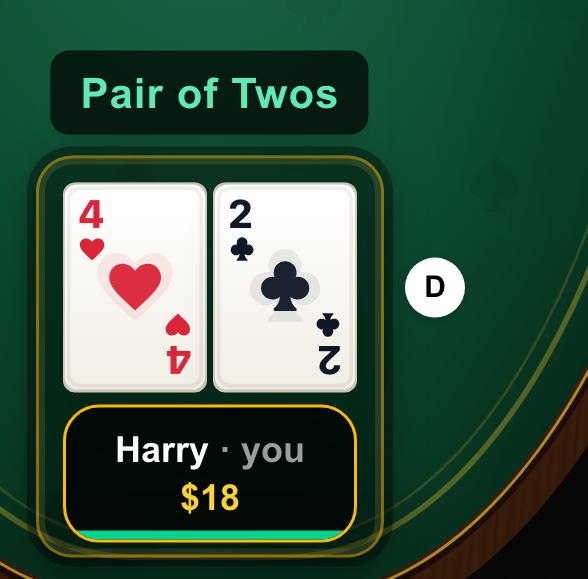
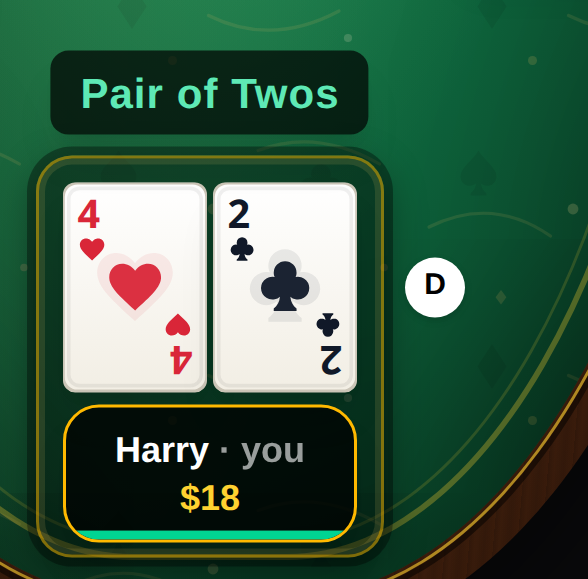
Refresh README shots for the Poker Party felt.
Recapture the four phone-portrait demo hands so the gold POKER PARTY
wordmark replaces HOME GAME. Hide the Next.js dev badge during capture.
README deploy notes now match the iphone-app friend beta.

diff --git a/README.md b/README.md
@@ -22,11 +22,11 @@ A polished, mobile-first multiplayer poker table with a hidden automated dealer.
 
 ## Screenshots
 
-Live gameplay on a phone. The wordmark sits with the board; your made hand is named on the felt above the cards; the dealer button and street bets sit beside the hole cards so a long caption never covers them.
+Live gameplay on a phone. The gold **POKER PARTY** wordmark sits with the board; your made hand is named on the felt above the cards; the dealer button and street bets sit beside the hole cards so a long caption never covers them.
 
 | Betting | Pair of Twos | Three of a Kind, Kings | Full House, Aces over Kings |
 | :---: | :---: | :---: | :---: |
-| <img src="docs/gameplay.png" alt="Hold'em flop — Pair of Twos, facing a $4 bet with chips out at two seats" width="160"> | <img src="docs/hand-label-closeup.png" alt="Hero seat — Pair of Twos labeled above 4♥ 2♣, dealer button to the right" width="160"> | <img src="docs/hand-three-kings.png" alt="Flop trips — pocket kings plus a king, $4 bet and D beside the cards, opponent called" width="160"> | <img src="docs/hand-full-house.png" alt="Flop full house — pocket aces with ace-king-king, $6 bet and D beside the cards" width="160"> |
+| <img src="docs/gameplay.png" alt="Poker Party flop — gold wordmark above Pair of Twos, facing a $4 bet" width="160"> | <img src="docs/hand-label-closeup.png" alt="Hero seat — Pair of Twos labeled above 4♥ 2♣, dealer button to the right" width="160"> | <img src="docs/hand-three-kings.png" alt="Poker Party flop trips — pocket kings plus a king, $4 bet and D beside the cards" width="160"> | <img src="docs/hand-full-house.png" alt="Poker Party flop full house — pocket aces with ace-king-king, $6 bet and D beside the cards" width="160"> |
 | Hole 4♥ 2♣, flop T♣ 2♠ K♣. Facing $4. | Same hand, close on the hero seat. | Pocket kings, flop K♣ 7♠ 4♦. $4 out. | Pocket aces, flop A♣ K♥ K♦. $6 out. |
 
 ## Stack
@@ -49,12 +49,15 @@ Required env in production: `SESSION_SECRET`, plus `KV_REST_API_URL` / `KV_REST_
 
 ## Deploy
 
-Pushing `master` deploys production via Vercel’s GitHub integration. Confirm at https://holdem.pokerparty.app.
+**Live:** https://holdem.pokerparty.app
 
-If a Git deploy does not start, fall back to:
+The friend-beta site is the `iphone-app` branch, shipped with `vercel deploy --prod`. Git still treats `master` as production — **do not push `master`** while the beta is live, or it will overwrite holdem.pokerparty.app.
 
 ```bash
+git checkout iphone-app
 vercel deploy --prod
 ```
+
+The iPhone app is a Capacitor shell around that same host (`app.pokerparty.holdem`). Home-screen icon is the Poker Party brand; the label under the icon is **Texas Hold'em**.
 
 See `CLAUDE.md` for the architecture deep-dive and contributor notes.

diff --git a/docs/iphone-app-plan.md b/docs/iphone-app-plan.md
@@ -171,6 +171,7 @@ Not a substitute for App Store review. Apple scores Guideline **4.2** / **5.3**,
 1. ~~**Official URL**~~ **done** (PR #6). Capacitor loads `https://holdem.pokerparty.app`. Harry still rebuilds on device (`npx cap sync ios` → Xcode Play). Seat cookies on the old `kappa` host will not follow.
 2. ~~**iPhone home-screen icon tweaks**~~ **done** (this session). White **POKER PARTY** on the icon; SpringBoard label **Texas Hold’em**. Privacy uses **Close** in the native app (hard nav to `/`) because the old Home link sat under the status bar and Next.js soft-nav was a no-op in WKWebView.
 3. **Phase 3 APNs** — still the App Store 4.2 path. Do not start until Harry says continue.
-4. **Try Simulator first, then the phone** — on a Mac: pull this branch, `npx cap sync ios`, `npx cap run ios` (or Xcode destination → iPhone simulator → Play). Icon + **Texas Hold’em** label are native. Privacy **Close** is a website change — the sim still loads `https://holdem.pokerparty.app`, so Close will not appear until this branch is production-deployed (`vercel deploy --prod` from `iphone-app` after merge). Then the same Xcode Play target can be your iPhone.
+4. ~~**Try Simulator first, then the phone**~~ Harry installed the icon + **Texas Hold’em** label on device (2026-09-04). Privacy Close still needs the website on production (`vercel deploy --prod` from `iphone-app`).
+5. ~~**README screenshots**~~ **done** (this session). Recaptured `docs/gameplay.png` and the three hand shots against the Poker Party felt. Docs-only; pushed `iphone-app` directly.
 
 Do not reopen engine mutation hunting. Do not push `master` while the live site is the `iphone-app` CLI beta. Do not create the App Store Connect listing until Phase 3 lands. **Docs-only: push `iphone-app` directly — no PR.**
